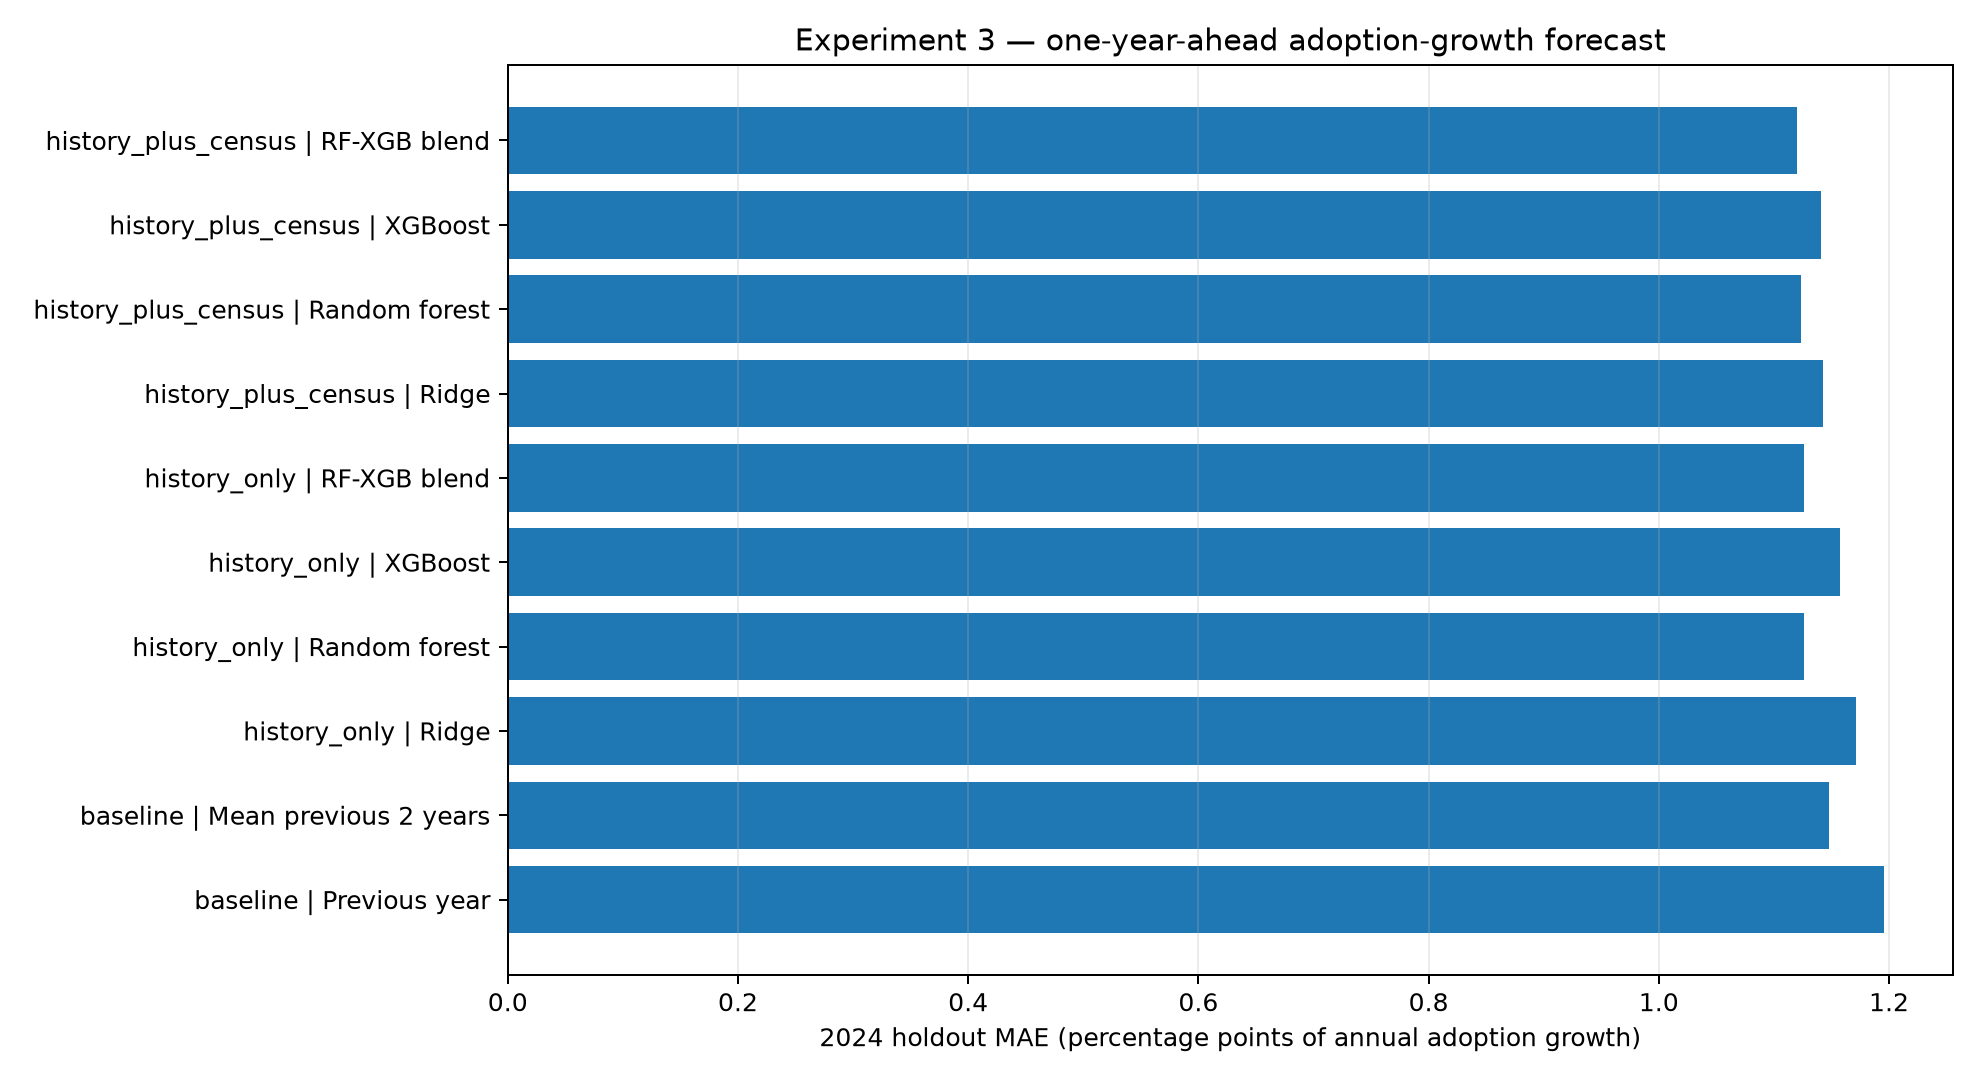
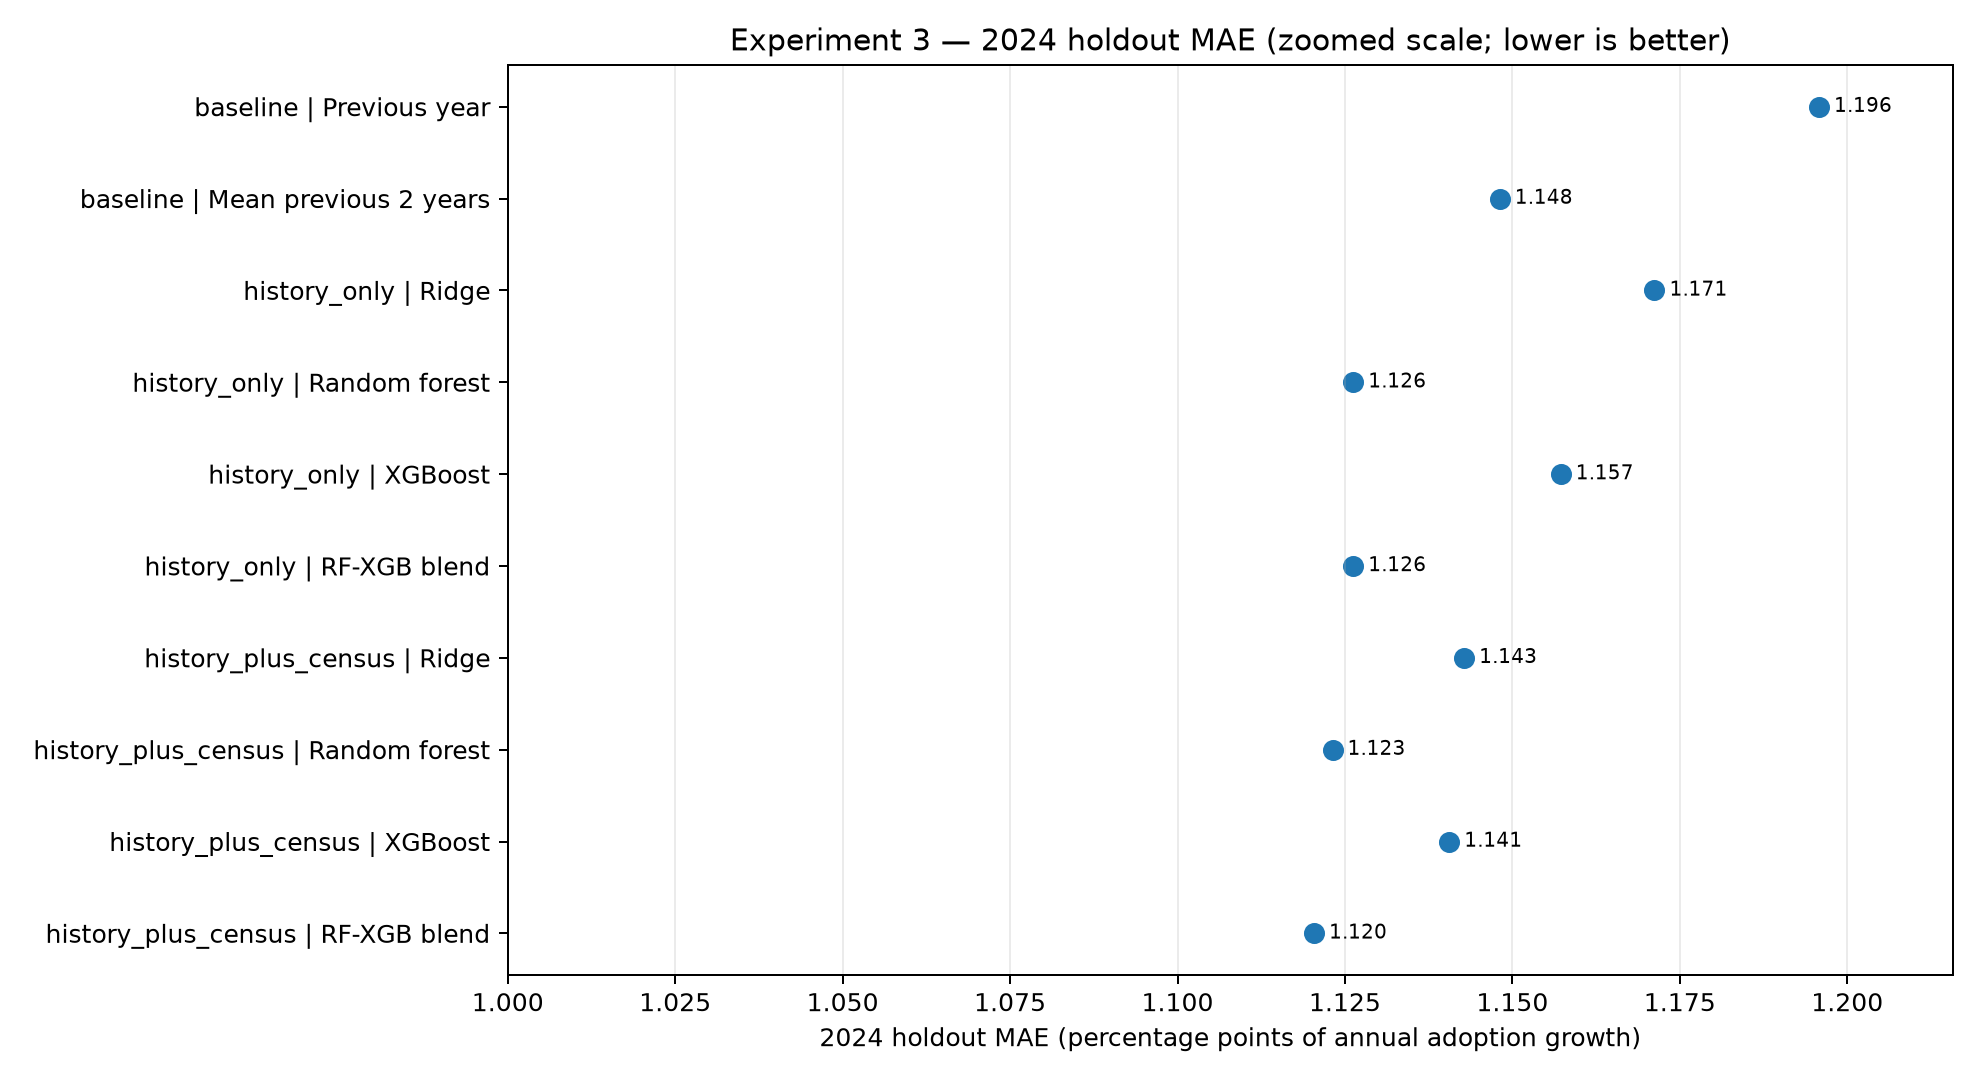
Polish M7 figure metadata and Census timing

diff --git a/src/m7_adoption_ensemble.py b/src/m7_adoption_ensemble.py
@@ -36,8 +36,13 @@ Feature sets
 1. history_only
 2. history_plus_census
 
-The Census variables are a fixed 2021 snapshot. They are only used in this
-post-2021 experiment. They are not inserted into the 2015-origin Experiment 2.
+The Census variables are a fixed 2021 snapshot whose reference date predates
+all Experiment 3 target years. Most 2021 Census topics were publicly released
+on 28 June 2022. Therefore, the 2021 -> 2022 development row is retrospective
+with respect to publication availability, while the 2022 -> 2023 validation
+and 2023 -> 2024 holdout are out-of-time forecasts with Census data available
+by the forecasting origin. Census variables are never inserted into the
+2015-origin Experiment 2.
 
 Primary sample
 --------------
@@ -70,14 +75,16 @@ The script logs:
 - verified M6 Experiment 2 summary
 - M7 Experiment 3 model selections and holdout results
 
-The local mlruns/ directory is gitignored. A compact run index is saved under
-results/m7/adoption_growth/mlflow_run_index.csv.
+The local mlflow.db SQLite database is gitignored. A compact run index is
+saved under results/m7/adoption_growth/mlflow_run_index.csv.
 """
 from __future__ import annotations
 
 import json
 import shutil
 import sys
+import time
+from importlib.metadata import version as package_version
 from pathlib import Path
 
 import mlflow
@@ -911,15 +918,38 @@ def make_figures(
         + plot["model"]
     )
 
+    values = plot["MAE_pct_points"].to_numpy(dtype=float)
+    y = np.arange(len(plot))
+
     fig, ax = plt.subplots(figsize=(11, 6))
-    ax.barh(labels, plot["MAE_pct_points"])
+    ax.scatter(values, y, s=55)
+    ax.set_yticks(y, labels)
+    ax.invert_yaxis()
+
+    for yi, value in zip(y, values):
+        ax.annotate(
+            f"{value:.3f}",
+            (value, yi),
+            xytext=(6, 0),
+            textcoords="offset points",
+            va="center",
+            fontsize=8,
+        )
+
+    xmin = min(1.0, float(values.min() - 0.02))
+    xmax = max(1.21, float(values.max() + 0.02))
+    ax.set_xlim(xmin, xmax)
+
     ax.set_xlabel(
-        "2024 holdout MAE (percentage points of annual adoption growth)"
+        "2024 holdout MAE "
+        "(percentage points of annual adoption growth)"
     )
     ax.set_title(
-        "Experiment 3 — one-year-ahead adoption-growth forecast"
+        "Experiment 3 — 2024 holdout MAE "
+        "(zoomed scale; lower is better)"
     )
     ax.grid(axis="x", alpha=0.25)
+
     fig.tight_layout()
     fig.savefig(
         OUT / "fig_m7_holdout_mae_comparison.png",
@@ -1004,10 +1034,18 @@ def make_figures(
 
 
 def main():
-    if OUT.exists():
-        shutil.rmtree(OUT)
+    run_started = time.monotonic()
 
     OUT.mkdir(parents=True, exist_ok=True)
+
+    # Preserve the committed human-readable results README across reruns.
+    for existing in OUT.iterdir():
+        if existing.name == "README.md":
+            continue
+        if existing.is_dir():
+            shutil.rmtree(existing)
+        else:
+            existing.unlink()
 
     search_dir = OUT / "search"
     search_dir.mkdir(exist_ok=True)
@@ -1326,10 +1364,16 @@ def main():
             "in increments of 0.1."
         ),
         "census_boundary": (
-            "2021 Census variables are used only "
-            "in this post-2021 Experiment 3 and "
-            "remain excluded from the 2015-origin "
-            "Experiment 2 forecast."
+            "The 2021 Census reference date predates all "
+            "Experiment 3 target years. Most 2021 Census "
+            "topics were publicly released on 28 June 2022. "
+            "The 2021 -> 2022 development row is therefore "
+            "retrospective with respect to publication "
+            "availability, while the 2022 -> 2023 validation "
+            "and 2023 -> 2024 holdout are out-of-time forecasts "
+            "with Census data available by the forecasting "
+            "origin. Census variables remain excluded from the "
+            "2015-origin Experiment 2 forecast."
         ),
         "denominator_caution": (
             "Adoption-rate denominator is static "
@@ -1350,6 +1394,19 @@ def main():
         "best_naive_baseline": {
             "model": str(baseline_best["model"]),
             "MAE": float(baseline_best["MAE"]),
+        },
+        "elapsed_seconds": round(
+            time.monotonic() - run_started,
+            1,
+        ),
+        "library_versions": {
+            "python": sys.version.split()[0],
+            "numpy": package_version("numpy"),
+            "pandas": package_version("pandas"),
+            "scikit-learn": package_version("scikit-learn"),
+            "xgboost": package_version("xgboost"),
+            "mlflow": package_version("mlflow"),
+            "matplotlib": package_version("matplotlib"),
         },
         "mlflow_tracking_uri": (
             "local gitignored SQLite database mlflow.db"

diff --git a/src/verify_m7_outputs.py b/src/verify_m7_outputs.py
@@ -62,6 +62,24 @@ assert meta["validation_origin"] == 2022
 assert meta["test_origin"] == 2023
 assert meta["holdout_target_year"] == 2024
 
+assert float(meta["elapsed_seconds"]) > 0
+
+versions = meta["library_versions"]
+for package in [
+    "python",
+    "numpy",
+    "pandas",
+    "scikit-learn",
+    "xgboost",
+    "mlflow",
+    "matplotlib",
+]:
+    assert versions.get(package), f"missing version for {package}"
+
+assert "28 June 2022" in meta["census_boundary"]
+assert "2022 -> 2023 validation" in meta["census_boundary"]
+assert "2023 -> 2024 holdout" in meta["census_boundary"]
+
 assert len(pred) > 2400
 assert pred[POSTCODE].is_unique
 assert pred["origin"].eq(2023).all()
@@ -187,6 +205,11 @@ print(
 print(
     "PASS Census-context ablation and "
     ">=100-dwelling sensitivity analysis"
+)
+
+print(
+    "PASS elapsed runtime, library versions, "
+    "and Census publication boundary"
 )
 
 print(

diff --git a/docs/M7_Shashwat_Modeling_Update.md b/docs/M7_Shashwat_Modeling_Update.md
@@ -11,7 +11,7 @@ Module 7 adds a third supervised experiment to the two installation-count foreca
 
 The target is an annual increment rather than cumulative adoption rate. This avoids making the prediction task largely a restatement of the previous cumulative adoption level.
 
-The experiment uses a strictly chronological three-origin design:
+The experiment uses a chronological three-origin target split:
 
 - origin 2021 → target 2022: tuning-training sample
 - origin 2022 → target 2023: chronological validation sample
@@ -53,7 +53,9 @@ The second specification adds the fixed ABS 2021 Census snapshot:
 - owner-occupied and rented shares
 - state
 
-The Census-enhanced specification is best interpreted as **retrospective structural-context augmentation**. The 2021 Census variables are never inserted into the genuine end-2015 fixed-origin Experiment 2 forecast.
+The Census features describe the population and housing structure measured at the 2021 Census, whose reference date predates all three Experiment 3 target years. Most 2021 Census topics were publicly released on **28 June 2022**. Accordingly, the 2021→2022 development row is retrospective with respect to publication availability, while the 2022→2023 validation and 2023→2024 holdout are genuine out-of-time forecasts with Census data available by the forecasting origin. The 2021 Census variables are never inserted into the genuine end-2015 fixed-origin Experiment 2 forecast.
+
+Source: Australian Bureau of Statistics, [2021 Census product release guide](https://www.abs.gov.au/census/guide-census-data/2021-census-product-release-guide).
 
 The supervised models are:
 
@@ -218,7 +220,7 @@ The existing Experiment 2 forecast-horizon and residual-cluster figures should r
 
 - Adoption rate uses a static 2021 occupied-private-dwelling denominator across multiple years.
 - The CER installation data do not perfectly separate household systems, commercial systems, replacements, or every registration-timing effect.
-- The Census-enhanced Experiment 3 is a post-2021 structural-context analysis and should not be conflated with the genuine end-2015 fixed-origin forecast.
+- The 2021 Census snapshot predates all Experiment 3 target years, but public release occurred on 28 June 2022; the 2021→2022 development row is therefore retrospective with respect to publication availability, while the later validation and holdout are out-of-time.
 - The primary-sample MAE gain is modest and does not dominate every metric.
 - Socioeconomic and housing characteristics associated with residual clusters are descriptive, not causal.
 

diff --git a/results/m7/adoption_growth/README.md b/results/m7/adoption_growth/README.md
@@ -44,7 +44,7 @@ A ≥100-dwelling sensitivity analysis is also reported.
 - `history_only`
 - `history_plus_census`
 
-The Census branch is retrospective structural-context augmentation and does not alter the end-2015 Experiment 2 forecast.
+The Census reference date predates all Experiment 3 target years. Because most 2021 Census topics were publicly released on 28 June 2022, the 2021→2022 development row is retrospective with respect to publication availability, while the 2022→2023 validation and 2023→2024 holdout are out-of-time forecasts with Census data available by the forecasting origin. The Census branch does not alter the end-2015 Experiment 2 forecast.
 
 ## Reproduce
 
@@ -100,4 +100,4 @@ The two-year-mean baseline records MAE 0.01034.
 
 ## Interpretation boundary
 
-The 2021 Census variables provide structural context for this post-2021 experiment. They are not treated as information available to the end-2015 Experiment 2 forecast, and observed Census/residual associations are not interpreted causally.
+The 2021 Census variables provide structural context for Experiment 3. Their reference date predates all three target years, but public release occurred during 2022, so only the later validation and holdout are described as out-of-time with respect to Census availability. The Census variables are not treated as information available to the end-2015 Experiment 2 forecast, and observed Census/residual associations are not interpreted causally.

diff --git a/README.md b/README.md
@@ -119,7 +119,7 @@ python src/verify_m7_outputs.py
 - **Tuning:** GridSearchCV and BayesSearchCV under time-ordered folds or chronological validation.
 - **Unsupervised analysis:** PCA + K-Means on out-of-sample relative residual profiles.
 - **Metrics:** MAE, RMSE, R², median absolute error where applicable, and naive persistence/rolling-mean baselines.
-- **Leakage rule:** installation-history features use only information available by the prediction origin. The 2021 Census snapshot is never used in the end-2015 Experiment 2 forecast. In Experiment 3, the Census branch is retrospective structural-context augmentation rather than a claim that every Census field was operationally available at the 2021 forecast origin.
+- **Leakage / availability rule:** installation-history features use only information available by the prediction origin. The 2021 Census snapshot is never used in the end-2015 Experiment 2 forecast. Its reference date predates all Experiment 3 target years, but most 2021 Census topics were released on 28 June 2022; therefore the 2021→2022 development row is retrospective with respect to publication availability, while the 2022→2023 validation and 2023→2024 holdout are out-of-time with Census data available by the forecasting origin.
 - **Sensitivity analysis:** Experiment 3 uses a ≥50-dwelling primary sample and repeats evaluation at ≥100 dwellings.
 
 ## Experiment tracking
